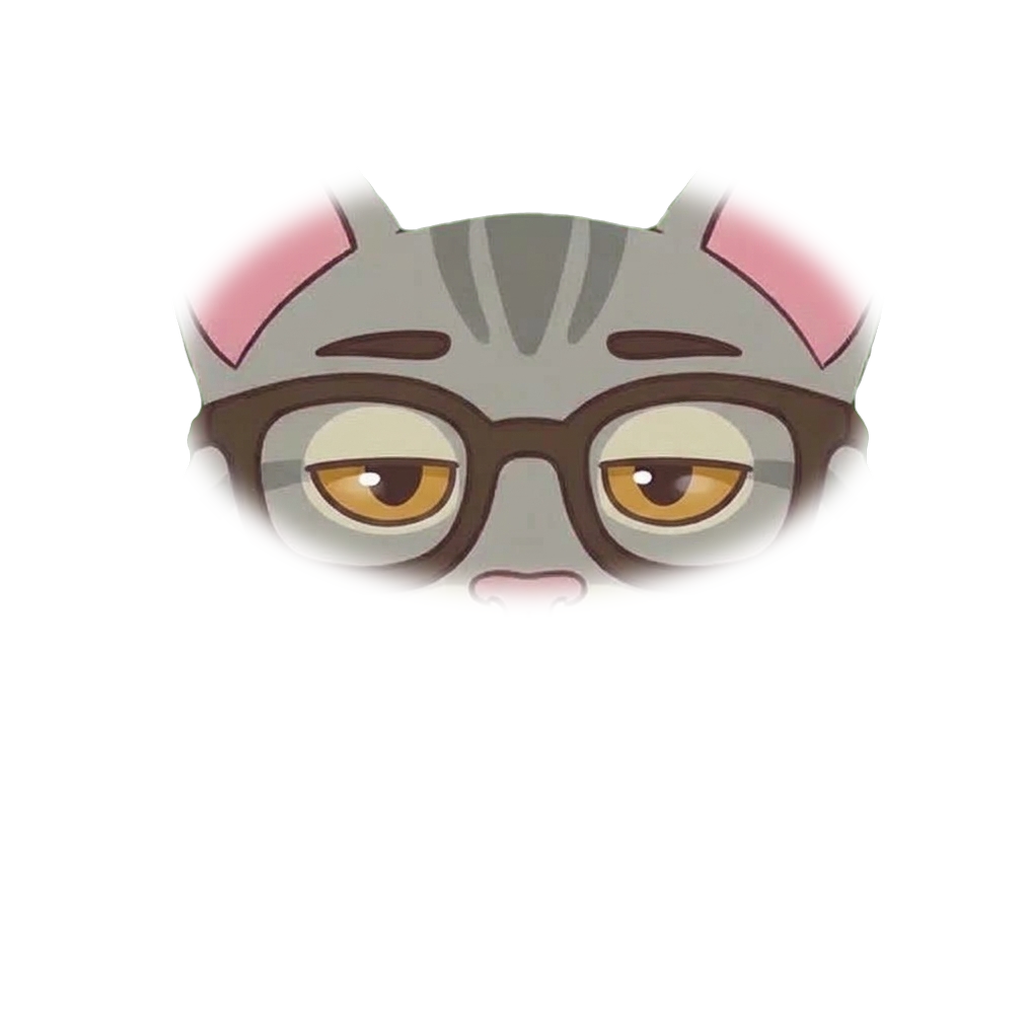
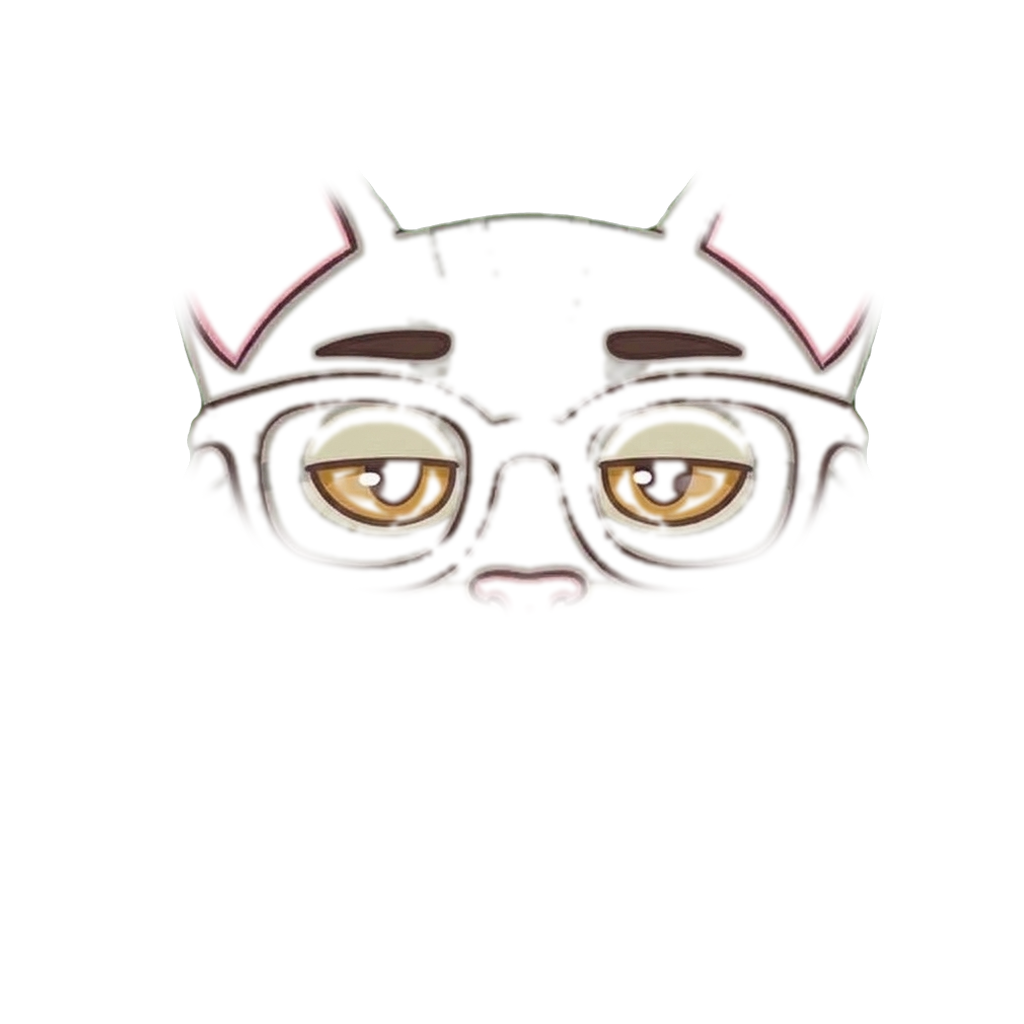
v4: ojos sueltos: solo se aplican los píxeles que cambian respecto a la base (limpia bloques JPEG); ojos 'excited' pasados por el reescalador
Claude-Session: https://claude.ai/code/session_01NybaBEBQ36CdbDeKLNGsjf

Changed region(s): [[0.1875, 0.1875, 0.8438, 0.5938]]

diff --git a/factory/mascot/v4/parts_eyes_single.py b/factory/mascot/v4/parts_eyes_single.py
@@ -3,7 +3,7 @@
 """
 import os, sys, glob
 import numpy as np
-from PIL import Image
+from PIL import Image, ImageFilter
 D = os.path.dirname(os.path.abspath(__file__)); V3 = os.path.join(D, "..", "v3"); S = os.path.join(D, "singles")
 sys.path.insert(0, V3)
 import parts as P
@@ -21,7 +21,11 @@ def main():
         n2 = P.nose_box(cell, (int(cell.width * 0.2), int(cell.height * 0.3), int(cell.width * 0.8), int(cell.height * 0.75)))
         g2 = P.glasses_box(cell, n2[1]); sc = gw / (g2[2] - g2[0])
         p = P.place(cell, sc, ((g2[0] + g2[2]) / 2, (g2[1] + g2[3]) / 2), (gcx, gcy), size)
-        p.putalpha(Image.fromarray(np.minimum(np.asarray(p.split()[3]), np.asarray(mask))))
+        a = np.minimum(np.asarray(p.split()[3]), np.asarray(mask)).astype(np.float32)
+        # solo lo que de verdad cambia respecto a la base (ojos, cejas, trazo): el pelo y los bloques JPEG de Gemini quedan fuera
+        diff = np.abs(np.asarray(p.convert("RGB")).astype(np.float32) - np.asarray(base.convert("RGB")).astype(np.float32)).max(axis=2)
+        d = Image.fromarray((np.clip((diff - 28) / 32, 0, 1) * 255).astype(np.uint8)).filter(ImageFilter.MaxFilter(7)).filter(ImageFilter.GaussianBlur(2))
+        p.putalpha(Image.fromarray((a * np.asarray(d) / 255).astype(np.uint8)))
         p.save(os.path.join(S, f"eyes_{name}.png")); print(name, "escala", round(sc, 3))
         t = Image.new("RGBA", size, (255, 255, 255, 255)); t.alpha_composite(base); t.alpha_composite(p)
         thumbs.append(t.convert("RGB").crop((120, 250, 920, 700)).resize((400, 225)))
